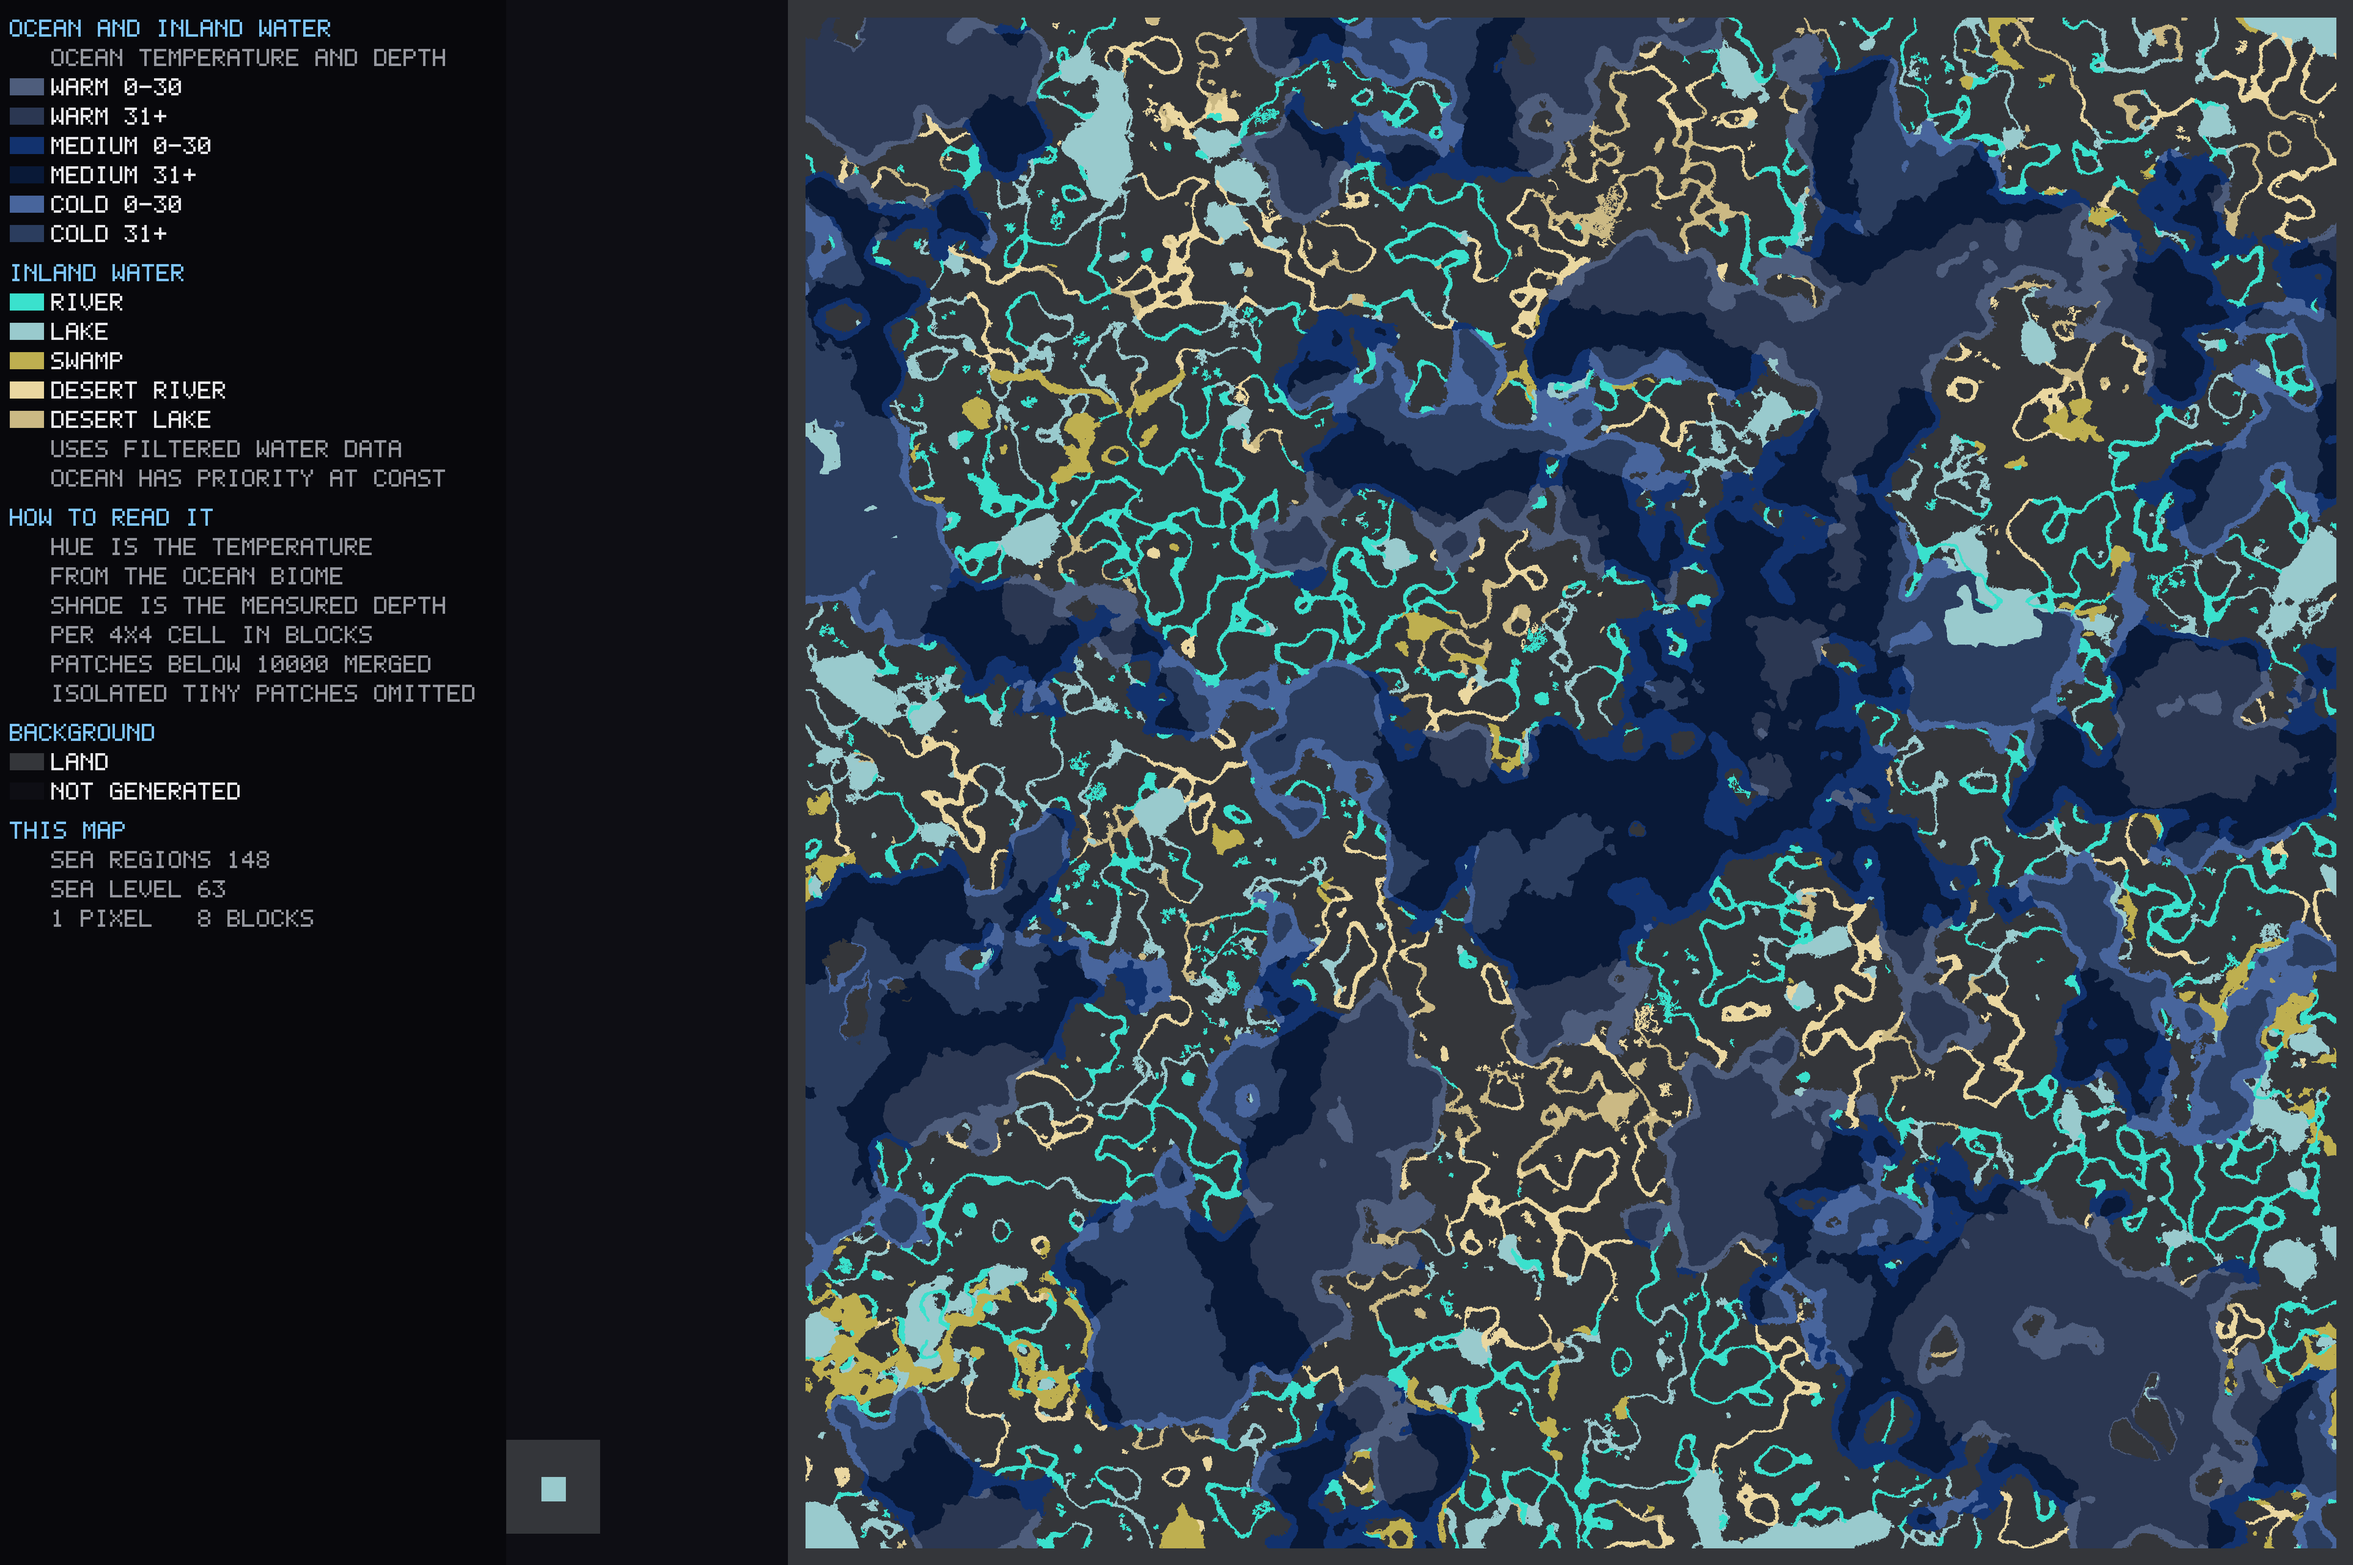
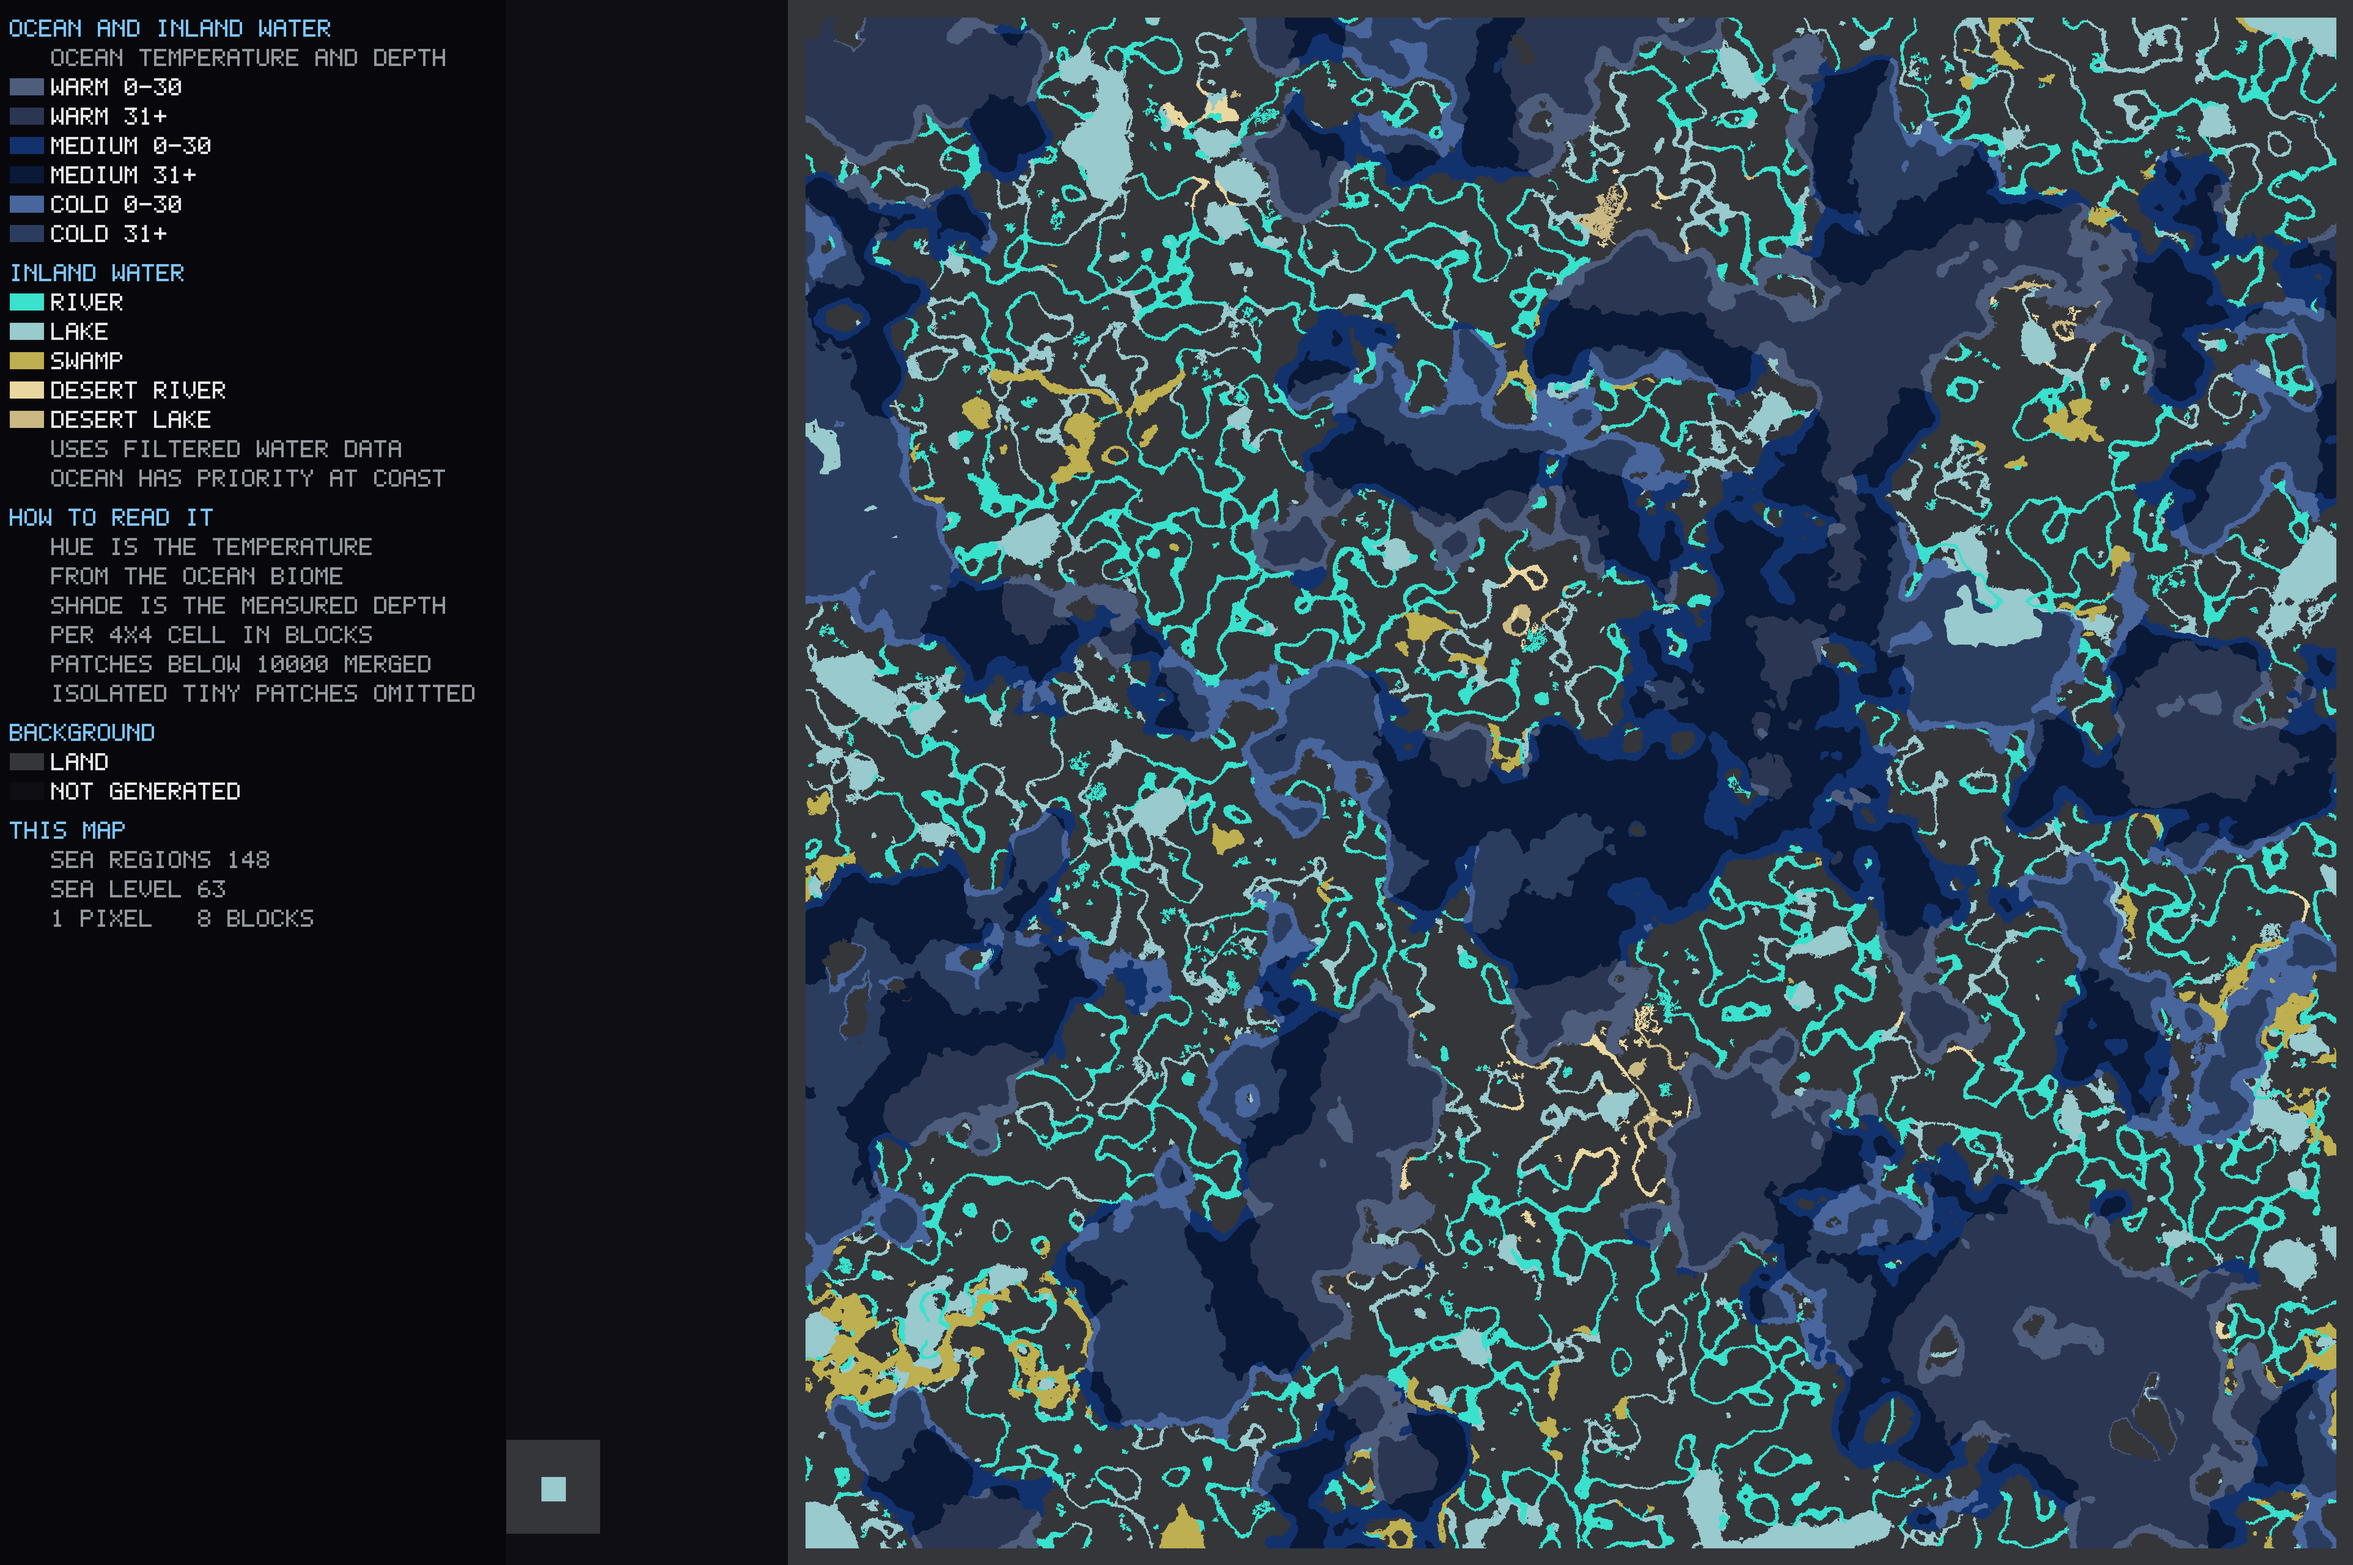
Limit desert water labels to desert and canyon biomes

diff --git a/src/world/biome.rs b/src/world/biome.rs
@@ -34,7 +34,7 @@ pub enum BiomeFamily {
 }
 
 bitflags::bitflags! {
-    /// Environmental traits derived from biome names and climate metadata.
+    /// Environmental traits derived from biome names.
     #[derive(Clone, Copy, PartialEq, Eq, Debug, Default)]
     pub struct BiomeTraits: u16 {
         const FROZEN   = 1 << 0;
@@ -65,16 +65,7 @@ impl BiomeInfo {
     pub fn derive(name: &str, temperature: f32, downfall: f32) -> Self {
         let id = crate::world::blocks::strip_namespace(name);
         let family = family_of(id);
-        let mut traits = traits_of(id);
-        // DESERT is the dry-country map category, including savannas, steppe
-        // and dry datapack biomes whose names do not mention sand or deserts.
-        if family == BiomeFamily::Land
-            && !traits.intersects(BiomeTraits::FROZEN | BiomeTraits::CAVE)
-            && temperature >= config::TEMP_MEDIUM_MIN
-            && downfall <= config::DRYLAND_MAX_DOWNFALL
-        {
-            traits |= BiomeTraits::DESERT;
-        }
+        let traits = traits_of(id);
         let water_temperature = water_temperature_of(id, family, traits, temperature);
         let vegetation = vegetation_of(id, family, traits, downfall);
         BiomeInfo {
@@ -118,23 +109,9 @@ fn traits_of(id: &str) -> BiomeTraits {
     {
         t |= BiomeTraits::FROZEN;
     }
-    if contains_any(
-        id,
-        &[
-            "desert",
-            "badlands",
-            "mesa",
-            "arid",
-            "oasis",
-            "sandstone",
-            "_sands",
-            "dune",
-            "bryce",
-            "wasteland",
-            "canyon",
-            "savanna",
-        ],
-    ) {
+    // The map's sand category is explicitly desert and canyon, not every
+    // low-rainfall biome or terrain type that might look dry.
+    if contains_any(id, &["desert", "canyon"]) {
         t |= BiomeTraits::DESERT;
     }
     if id.contains("mangrove") {
@@ -550,18 +527,27 @@ mod tests {
     }
 
     #[test]
-    fn dry_country_includes_canyons_savannas_and_low_rainfall_land() {
+    fn desert_category_is_limited_to_desert_and_canyon_names() {
         for (name, temperature, downfall) in [
+            ("minecraft:desert", 2.0, 0.0),
+            ("terralith:desert_oasis", 2.0, 0.0),
+            ("terralith:desert_canyon", 2.0, 0.0),
+            ("terralith:bryce_canyon", 2.0, 0.0),
             ("terralith:amethyst_canyon", 0.95, 0.9),
-            ("minecraft:savanna", 1.2, 0.0),
-            ("terralith:brushland", 1.2, 0.2),
-            ("terralith:steppe", 0.4, -0.5),
-            ("custom:dry_country", 0.25, 0.2),
         ] {
             assert!(BiomeInfo::derive(name, temperature, downfall).traits
                 .contains(BiomeTraits::DESERT), "{name}");
         }
         for (name, temperature, downfall) in [
+            ("minecraft:savanna", 1.2, 0.0),
+            ("minecraft:savanna_plateau", 1.2, 0.0),
+            ("minecraft:badlands", 2.0, 0.0),
+            ("terralith:brushland", 1.2, 0.2),
+            ("terralith:steppe", 0.4, -0.5),
+            ("terralith:arid_highlands", 1.6, 0.1),
+            ("custom:mesa", 2.0, 0.0),
+            ("custom:wasteland", 2.0, 0.0),
+            ("custom:dry_country", 0.25, 0.2),
             ("minecraft:plains", 0.8, 0.4),
             ("minecraft:forest", 0.7, 0.8),
             ("custom:wet_country", 0.8, 0.21),

diff --git a/src/water/scanner.rs b/src/water/scanner.rs
@@ -855,19 +855,27 @@ mod tests {
         let (mut buf, mut scratch, parsed) = swamp_fixture(true);
         let registry = BiomeRegistry::vanilla_only();
         assert_eq!(scan_dryland(&buf, &parsed, &scratch, &registry, &mut [0; 256]), 0);
-        // Reuse the packed heightmap, but make every block solid and set the
-        // surface biome to savanna. No wet chunk will be inserted for this bank.
+        // Reuse the packed heightmap, but make every block solid. Only desert
+        // banks count; savanna and other dry terrain must stay unmarked.
         scratch.sections[0].block_pal = (1, 1);
-        let name = "minecraft:savanna";
-        scratch.palette[6].off = buf.len() as u32;
-        scratch.palette[6].len = name.len() as u16;
-        buf.extend_from_slice(name.as_bytes());
-        assert_eq!(scan_dryland(&buf, &parsed, &scratch, &registry, &mut [0; 256]), u16::MAX);
-        assert!(scan_chunk(
-            &buf, &parsed, &registry, &scratch, &mut SectionCache::default(),
-            &mut [0; 256], &mut [0; 256], &mut ScanStats::default(),
-            ScanOptions { caves: true, min_surface_y: Some(53) },
-        ).is_none());
+        for (name, expected) in [
+            ("minecraft:desert", u16::MAX),
+            ("minecraft:savanna", 0),
+            ("minecraft:savanna_plateau", 0),
+            ("minecraft:badlands", 0),
+            ("minecraft:plains", 0),
+        ] {
+            scratch.palette[6].off = buf.len() as u32;
+            scratch.palette[6].len = name.len() as u16;
+            buf.extend_from_slice(name.as_bytes());
+            assert_eq!(scan_dryland(&buf, &parsed, &scratch, &registry, &mut [0; 256]),
+                expected, "{name}");
+            assert!(scan_chunk(
+                &buf, &parsed, &registry, &scratch, &mut SectionCache::default(),
+                &mut [0; 256], &mut [0; 256], &mut ScanStats::default(),
+                ScanOptions { caves: true, min_surface_y: Some(53) },
+            ).is_none(), "land metadata must not create water geometry for {name}");
+        }
     }
 
     #[test]

diff --git a/src/config.rs b/src/config.rs
@@ -212,10 +212,7 @@ pub const CORAL_MIN_SHARE: f32 = 0.02;
 /// Share of a region's water cells whose biome is desert-like for `DESERT`.
 pub const DESERT_MIN_SHARE: f32 = 0.4;
 
-/// Dry-country climate fallback for non-frozen land biomes without desert names.
-pub const DRYLAND_MAX_DOWNFALL: f32 = 0.2;
-
-/// Dry land within four biome cells (16 blocks) contributes to desert water.
+/// Desert/canyon land within four biome cells (16 blocks) contributes to desert water.
 pub const DRYLAND_CELL_RADIUS: u8 = 4;
 
 /// Share of a region's water cells whose biome is mangrove-like for `MANGROVE`.

diff --git a/README.md b/README.md
@@ -16,7 +16,7 @@ mountains. Flowing/falling water and lower water surfaces are excluded before
 classification; merging and the 2,000-column minimum then remove small regions.
 The current export contains 2,336 regions: 148 seas, 955 rivers, 1,081 lakes and
 152 swamps. Raw mud expands the retained swamp area from 1.84 to 7.89 million
-square blocks; the dry-country modifier now applies to 498 regions.
+square blocks; the desert/canyon modifier applies to 91 regions.
 The height rule also admits shallow covered ponds; the area floor
 removes small isolated ones. Desert rivers and lakes use lighter sand colours.
 
@@ -519,8 +519,8 @@ not, and the data says so.
   dissolve into the cold ocean next to it.
 * `CORALS` - living coral blocks / fans found near the ocean floor. Dead coral does
   not count.
-* `DESERT` - inland water in dry country, including canyons, badlands, savannas
-  and low-rainfall land biomes. It retains its water kind; `desert` is a modifier.
+* `DESERT` - inland water in desert or canyon biomes. It retains its water kind;
+  `desert` is a modifier.
 * `MANGROVE` - mangrove water. Also a modifier; the kind stays `swamp`.
 * `CAVE` - the water cannot see the sky. Cave regions are always `lake` - there is
   no sea, river or swamp without a sky - and they never merge with water above
@@ -609,7 +609,7 @@ use 1000 when those matter more than a cleaner overview. Covered mountain passag
 still qualify under the same height rule, rather than being excluded by a roof.
 Both comparison exports passed their binary lookup verification (65 and 66 checks).
 The CLI defaults are unchanged. The current samples use the same explicit preset,
-with the dry-country and raw-mud detection described above.
+with the desert/canyon and raw-mud detection described above.
 
 ### Why small spots can remain visible
 
@@ -697,19 +697,18 @@ desert, mangrove, jungle) are derived from the resource location, so an unknown
 modded biome still lands somewhere sensible. `--debug` reports any biome name the
 registry did not know.
 
-The desert map category covers dry country generally: canyon, savanna, badlands,
-mesa and the existing desert/arid names qualify. Other land biomes qualify when
-`downfall <= 0.2` and `temperature >= 0.25`, excluding frozen and cave biomes.
-These limits use biome metadata, not the world's current weather.
+The desert map category is limited to biome names containing `desert` or
+`canyon`. Savannas, badlands, shrubland, steppe and other dry terrain do not qualify
+on their own. Rainfall and temperature do not add biomes to this category.
 
 River biomes can keep a neutral name even inside a canyon. The scanner therefore
-records dry surface-biome cells in all chunks, including chunks with no water.
-Inland regions also receive dry-country evidence from banks within four biome
+records desert/canyon surface-biome cells in all chunks, including chunks with no
+water. Inland regions also receive desert/canyon evidence from banks within four biome
 cells (16 blocks, including diagonals), across chunk and region-file boundaries.
-At least 40% of a region's columns must have direct or nearby dry-country evidence
+At least 40% of a region's columns must have direct or nearby desert/canyon evidence
 to receive `DESERT`. This changes the modifier without splitting regions or
-expanding water outlines. Tune `DRYLAND_MAX_DOWNFALL`, `DRYLAND_CELL_RADIUS` and
-`DESERT_MIN_SHARE` in `src/config.rs` to adjust those rules.
+expanding water outlines. Tune `DRYLAND_CELL_RADIUS` and `DESERT_MIN_SHARE` in
+`src/config.rs` to adjust the bank distance and required share.
 
 ## Tests
 
